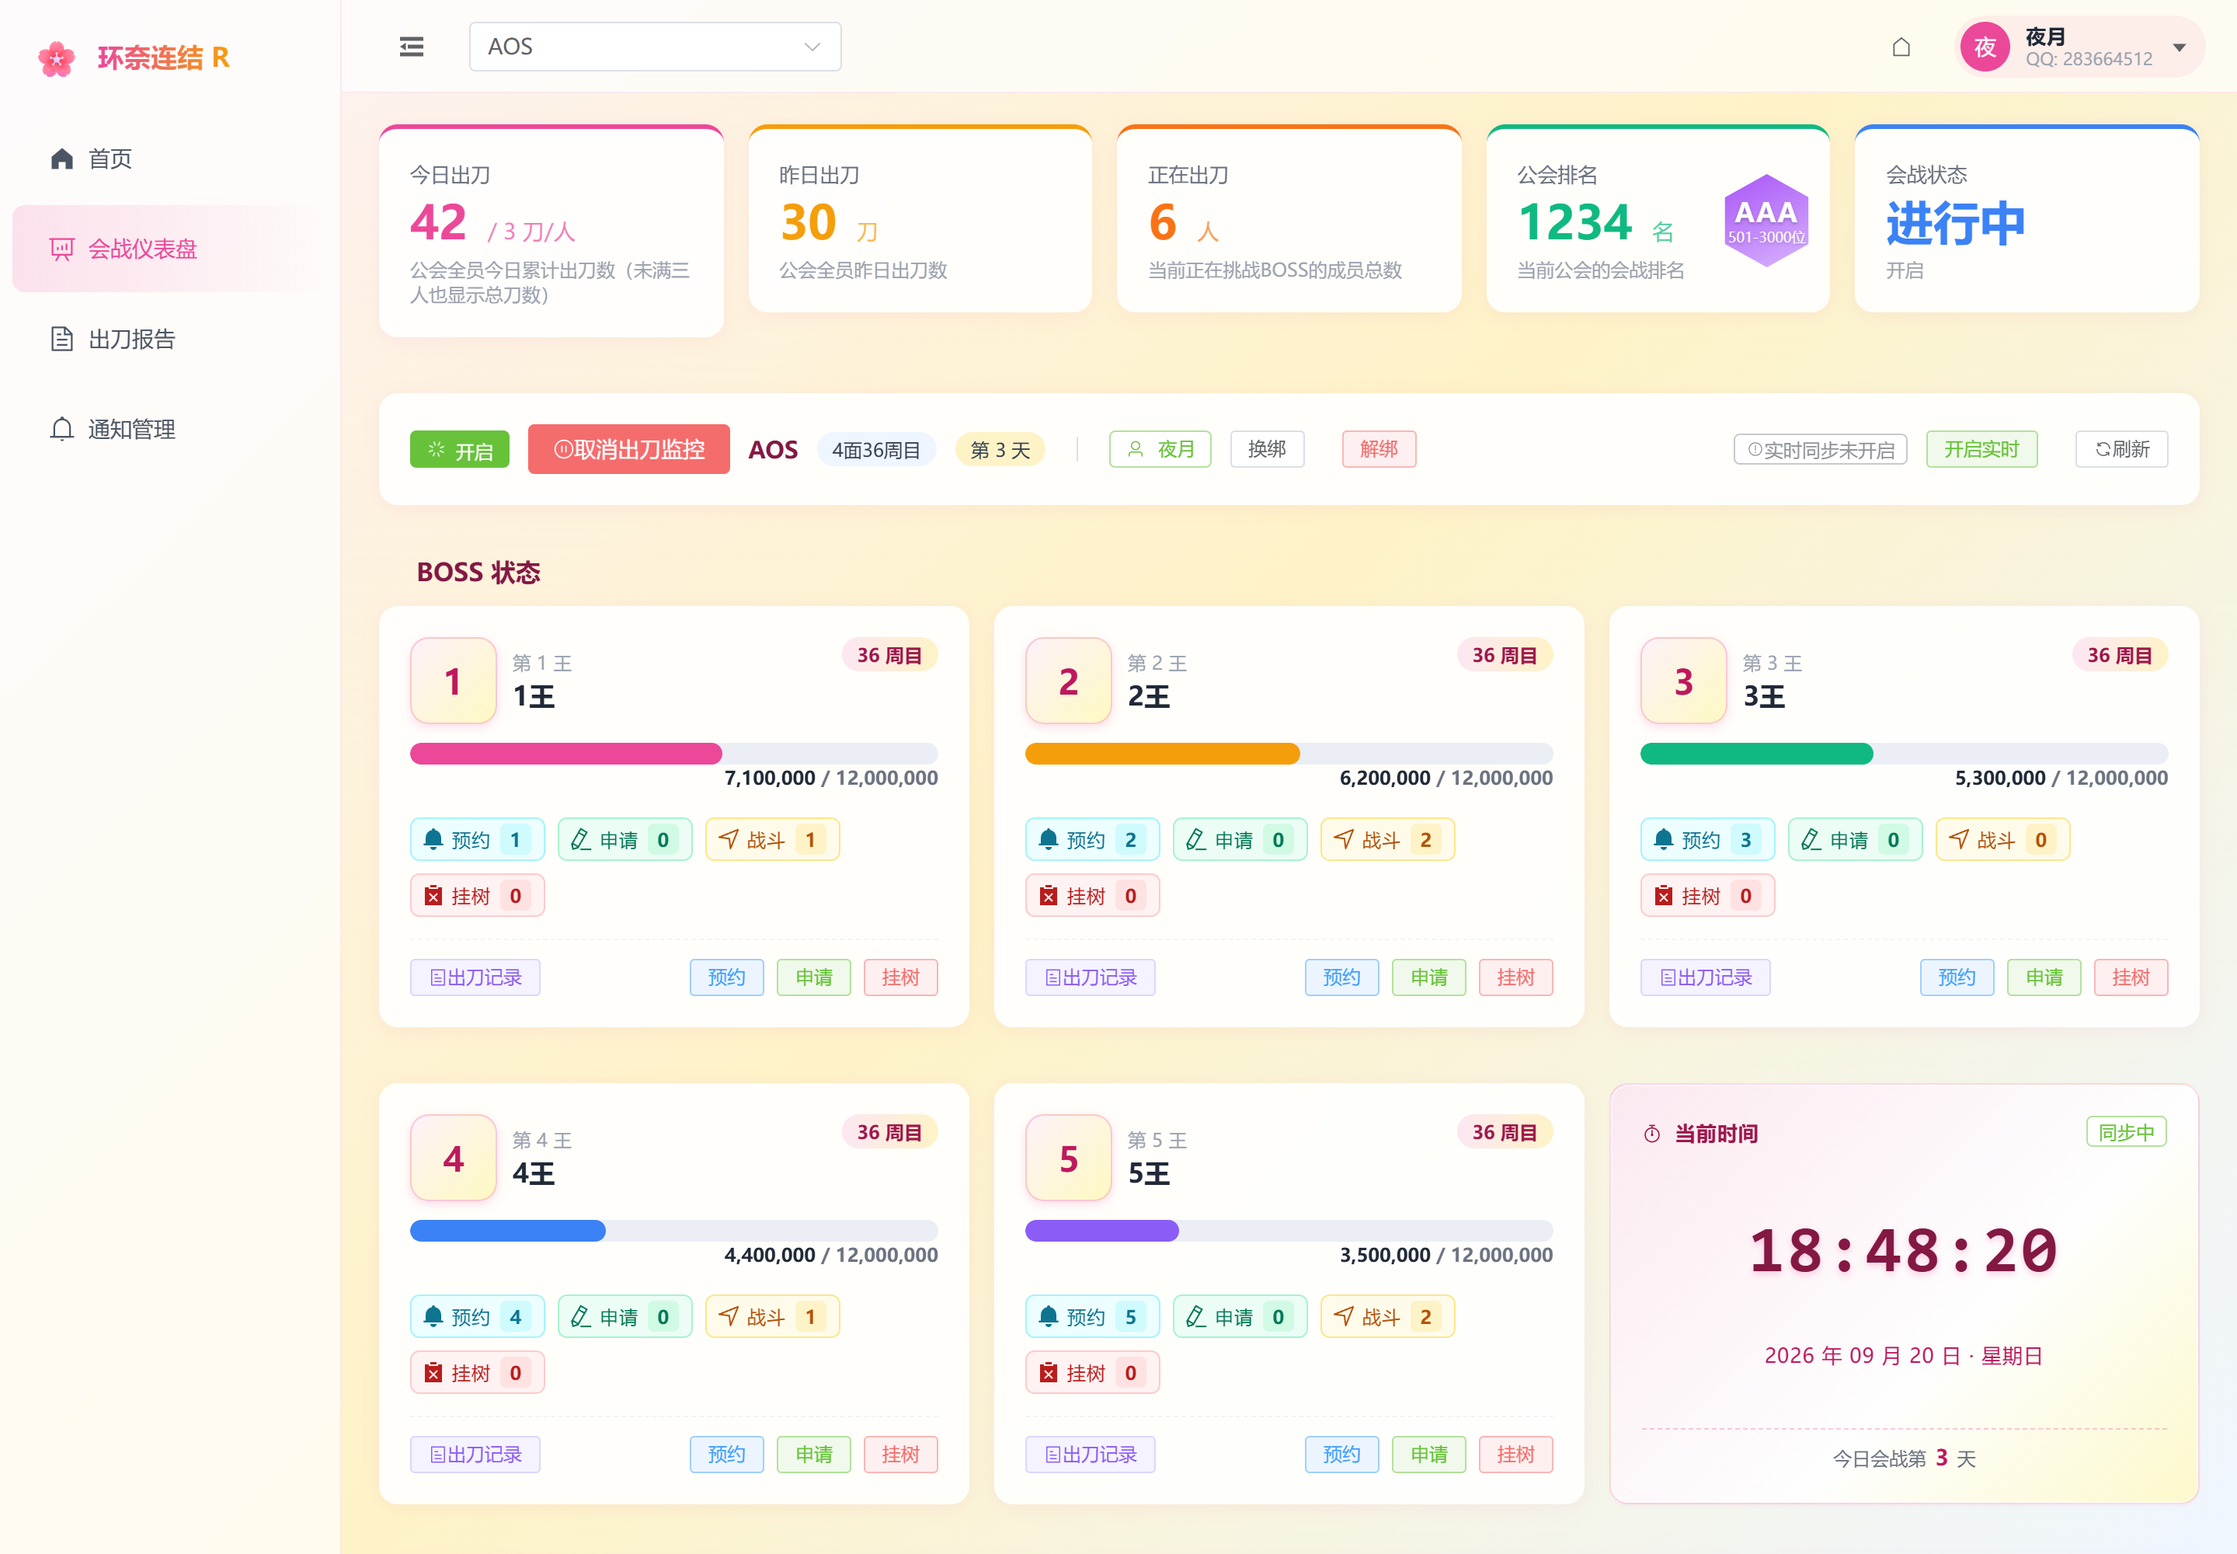
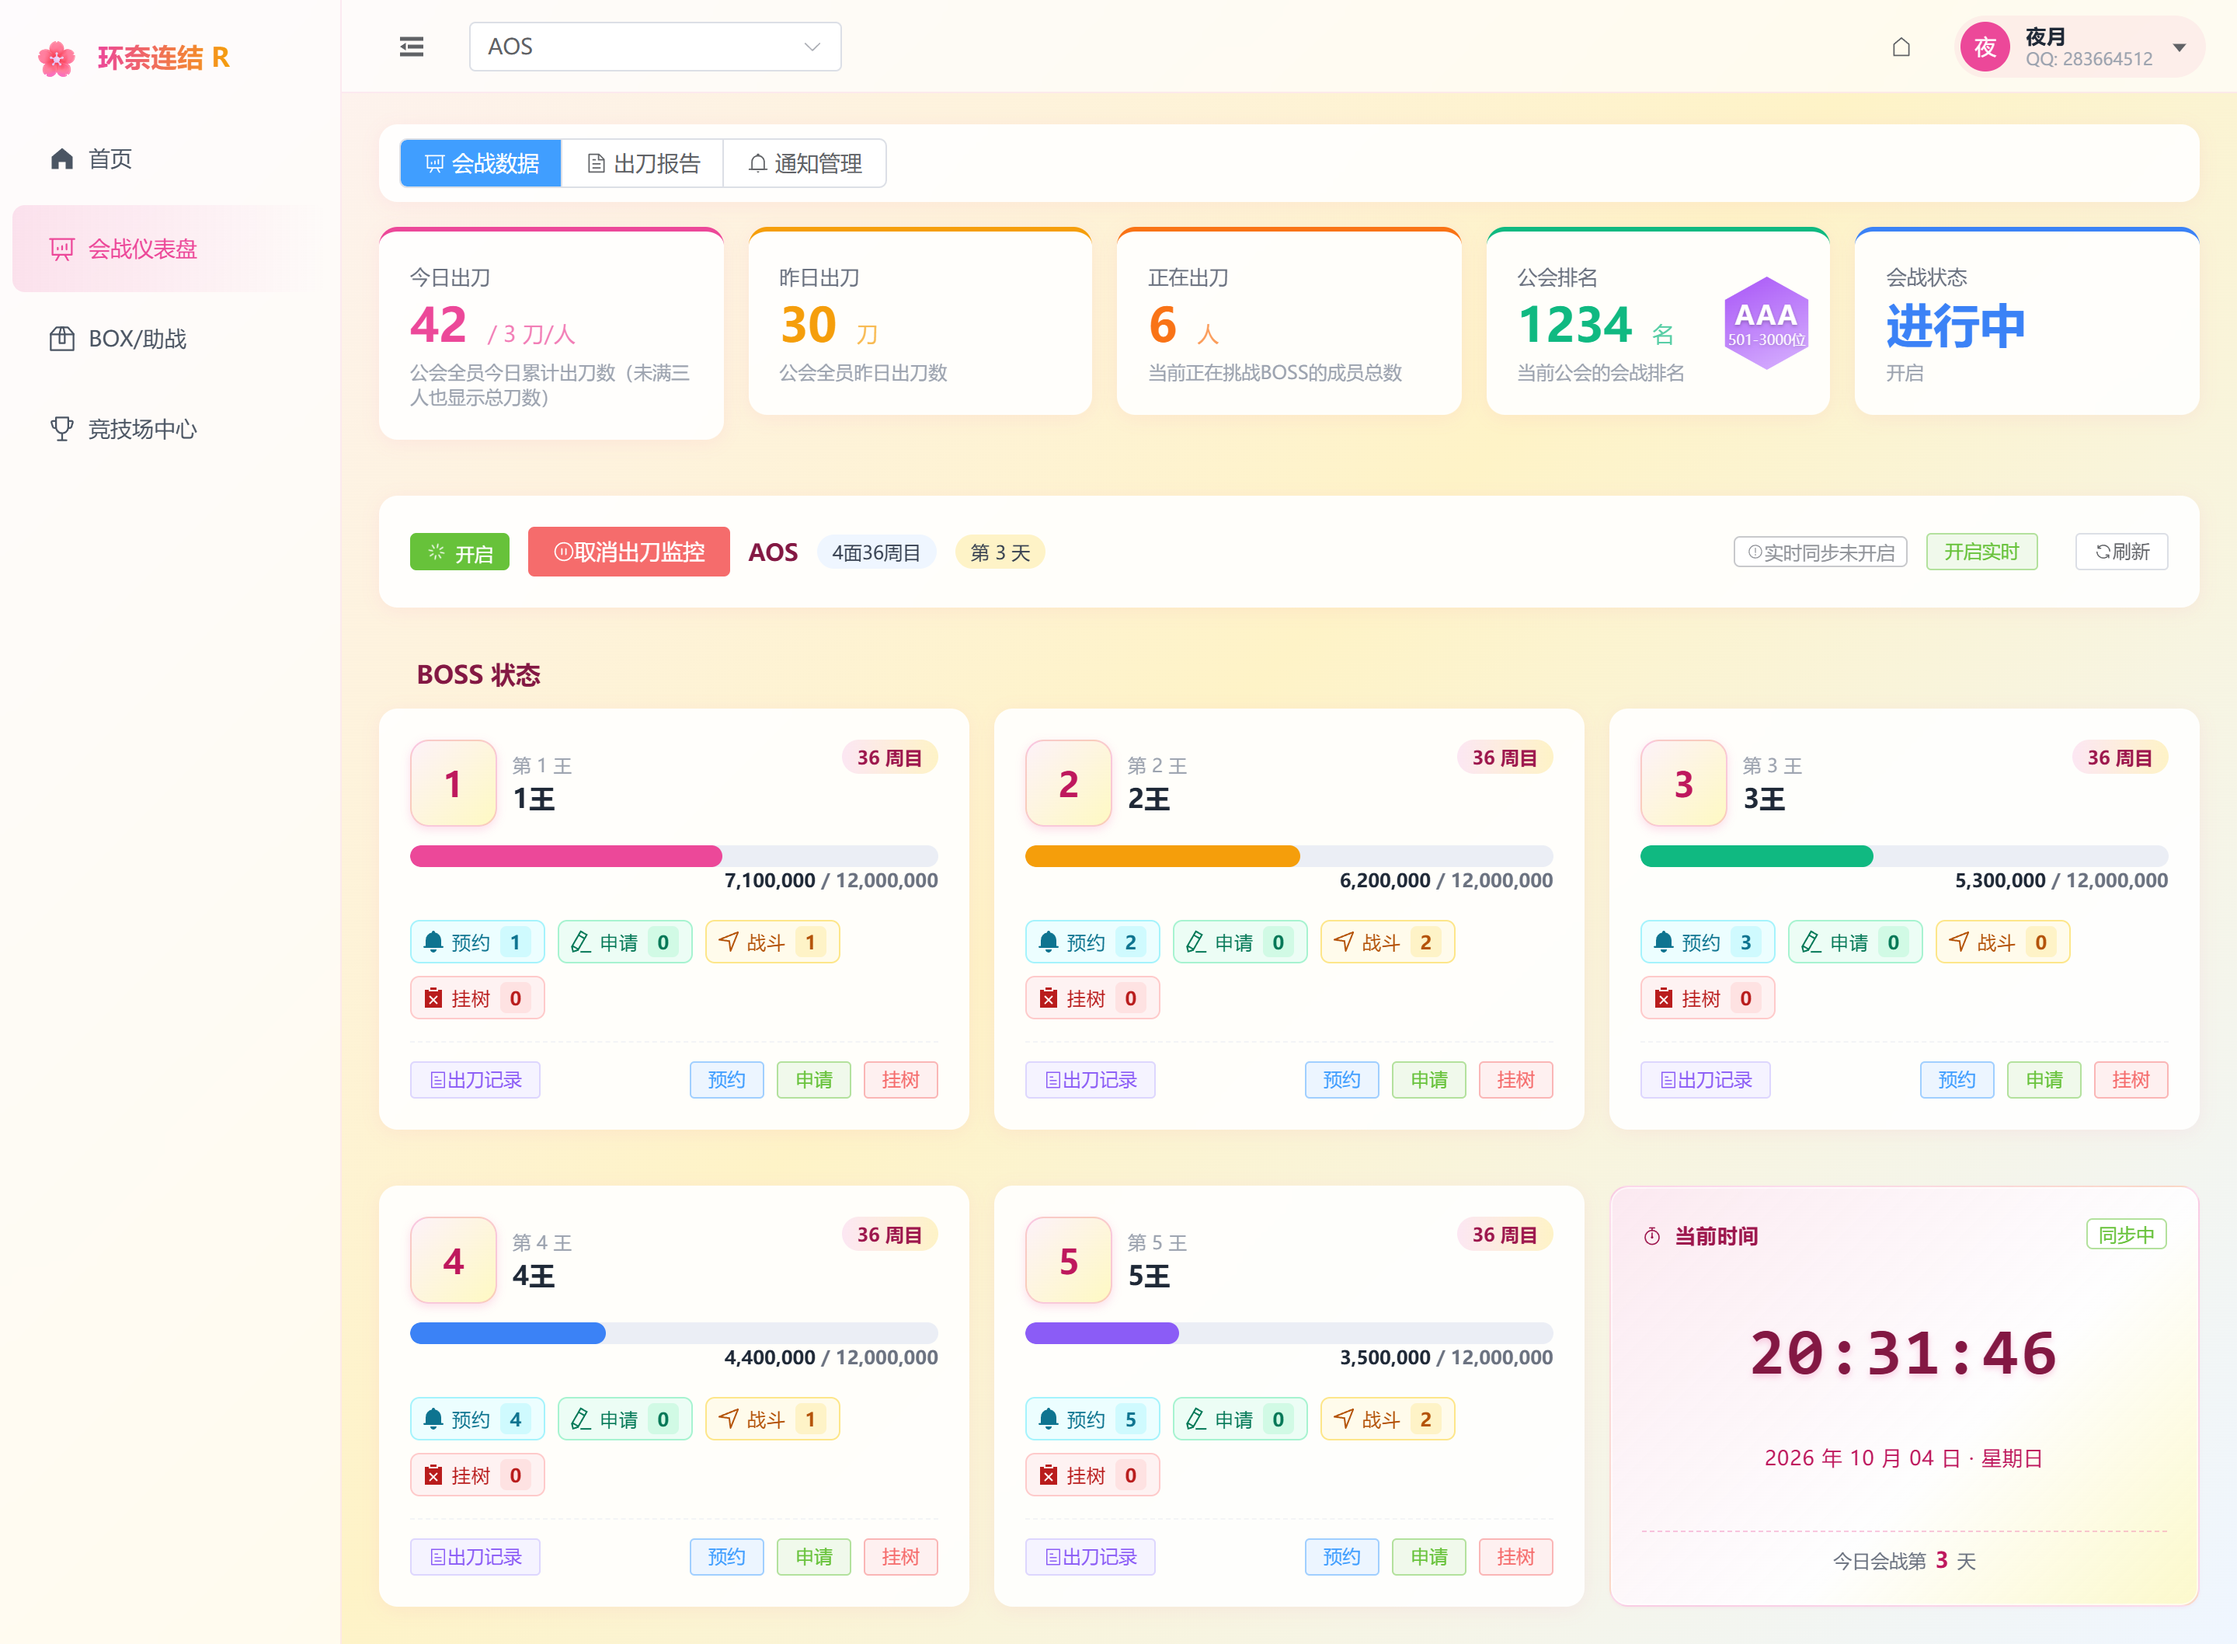
更新阅览图

diff --git a/readme.md b/readme.md
@@ -31,35 +31,20 @@
 
 ## 🖥 网页端界面预览
 
-WEBUI 把常用的 QQ 指令搬到了浏览器里：查战报、看档线、管理出刀通知、绑定游戏账号都不用在群里刷屏。
-BOX / 助战查询与竞技场中心也做成了网页入口（只挂在首页「快捷入口」，不进侧边栏）：
-BOX / 助战在网页端用**头像网格**展示（点开头像看详情，未拥有的角色灰度列出），
-不走 QQ 端那套整图合成 —— 群里的指令行为完全没变。
-头像底部会按 QQ 端 BOX 出图的样式叠出**星级**：
-**金色 = 战斗星级**、**亮蓝 = 已拥有但被「调星」调下去的**、**淡蓝 = 还没到**，
-6★ 时 5 颗全金 + 第 6 格一颗粉色「6 星」标记（画法与 QQ 端出图用的是同一份素材与同一套规则）。
-个人 BOX 与公会助战**进入就默认显示全部**（不用先输入角色名）；「我的助战」照游戏
-「支援设定」界面排成**地下城 / 团队战·露娜之塔 / 冒险**三栏卡片（每栏固定 2 个位，
-空位也占一格），卡片上是头像 + 角色名 + 角色等级 + 角色 Rank，底下的**更换支援**按钮
-可以把这一栏换成你从 BOX 里挑的角色（等价于群里的【上地下城支援】/【上公会战支援】/
-【上关卡支援】，**同样会顶号**）。
-详情里的**好感只显示短标签（`8 级` / `加成`），点一下才弹出完整加成文字** —— 加成文字太长，
-平铺进表格不好看。助战的好感等级游戏接口并不提供（只给加成数值），所以助战就只显示「加成」。
-页面上还有**刷新缓存**按钮（等价于群里的【刷新box缓存】/【刷新助战缓存】），
-点之前会提示「会短暂顶号」，刷完自动重查。
 **下面两张截图使用示例数据（非真实公会），仅用于展示界面布局。**
 
 ### 会战仪表盘
 
 五个 BOSS 的血量进度、预约 / 申请 / 挂树人数、当前周目与阶段、今日出刀与公会排名一屏看完，右下角是实时时钟。
-顶部可以切换公会，每个公会的档线、通知、账号都是独立的。
+顶部可以切换公会，档线、出刀通知都按公会独立存（游戏账号是全局的，绑一次所有群通用）。
+「出刀报告」「通知管理」已并成这一页的三个 Tab，不再单独占侧边栏。
 
 ![会战仪表盘](docs/images/web-dashboard.png)
 
 ### 出刀报告
 
 左侧是「我的出刀」明细（时间 / BOSS / 伤害 / 完整刀·尾刀），右侧是全员伤害与分数排行图，
-下方是全员汇总表，支持按伤害 / 分数 / 累计刀数排序。
+下方是全员汇总表，支持按伤害 / 分数 / 累计刀数排序；再往下的出刀明细已做分页，几百条也不卡。
 
 ![出刀报告](docs/images/web-report.png)
 
